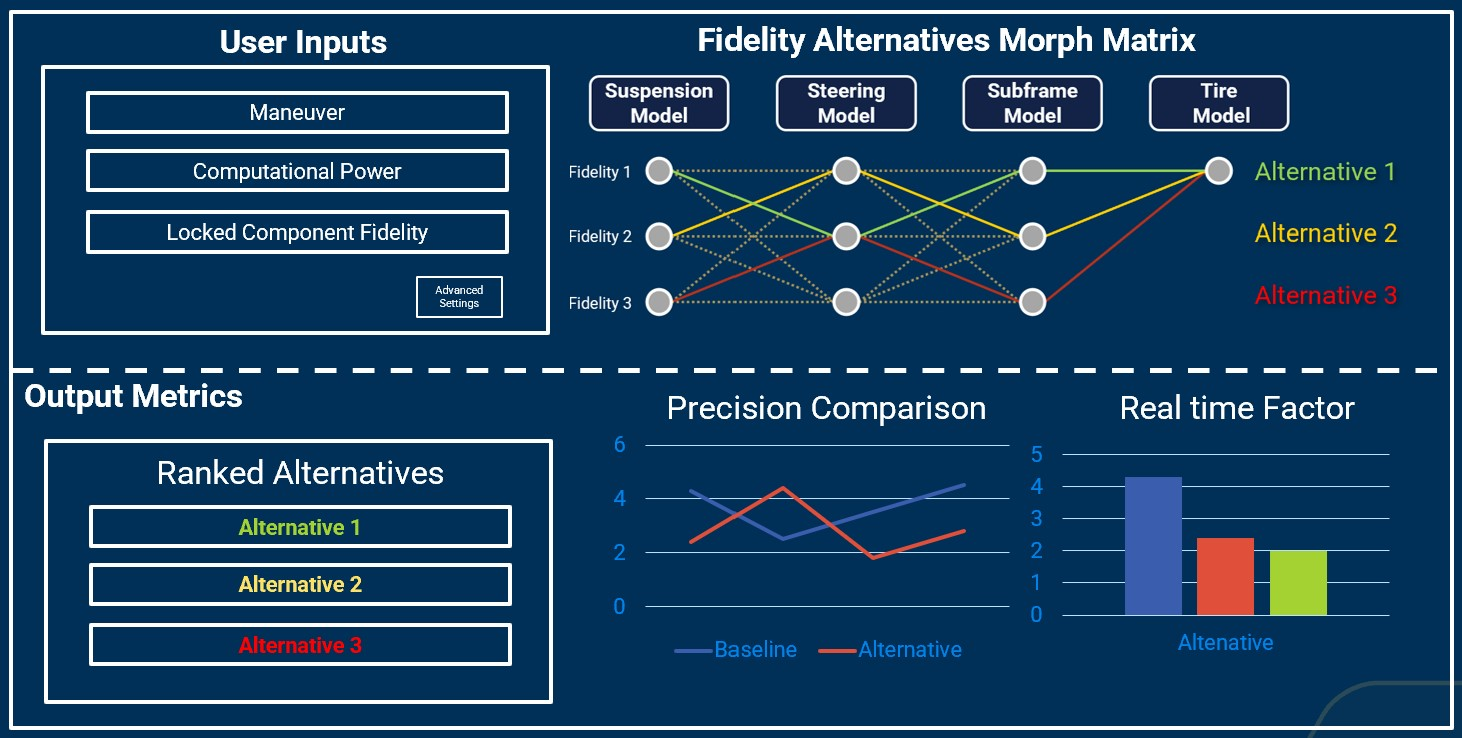
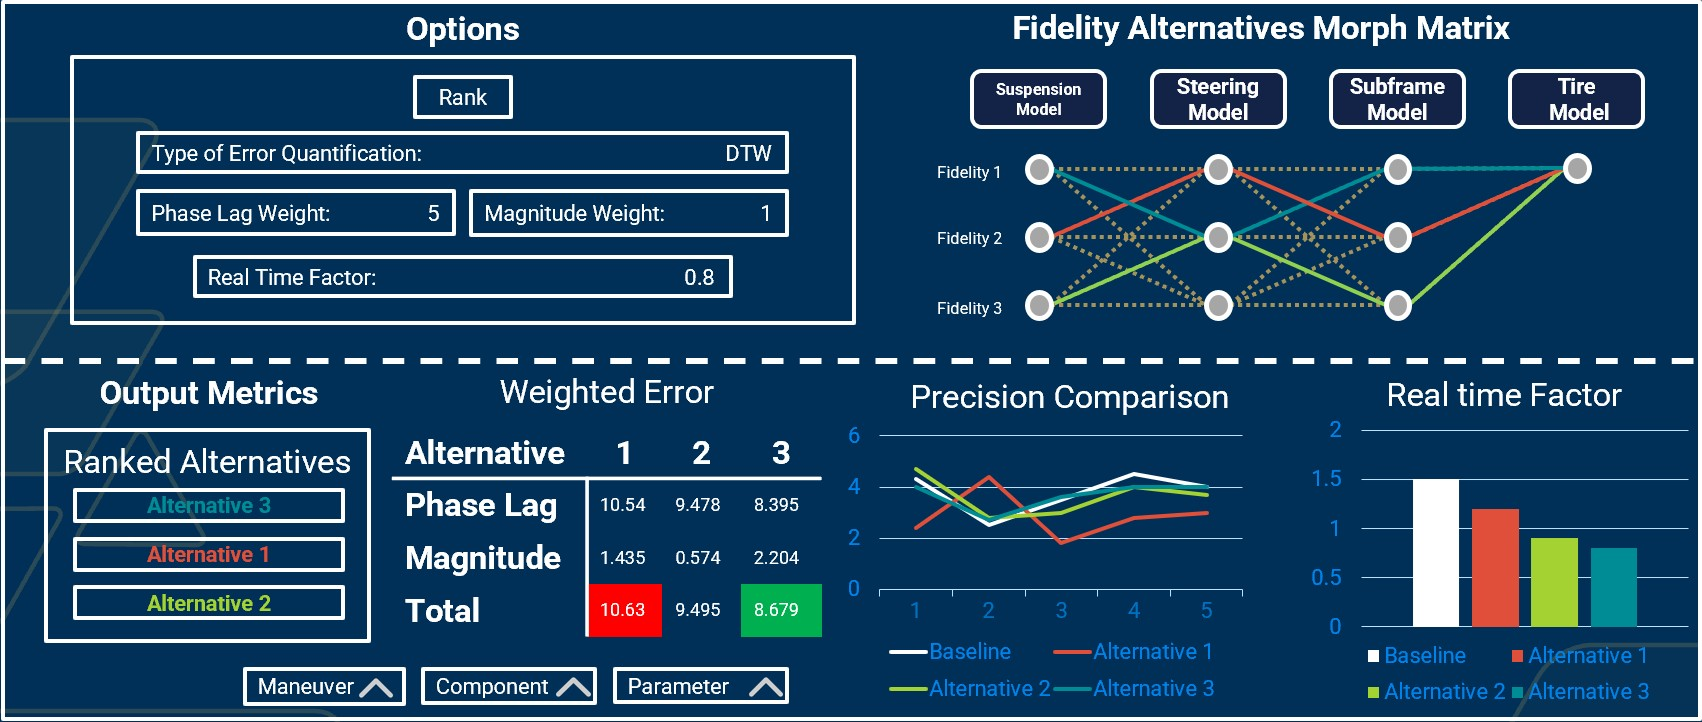
Updated the projects section

Changed region(s): [[0.0, 0.0, 1.0, 1.0], [0.7079, 0.8227, 0.7387, 0.8532], [0.7079, 0.7313, 0.7387, 0.7618]]

diff --git a/index.html b/index.html
@@ -27,7 +27,7 @@
 
     <section id="about">
         <h2>About Me</h2>
-        <p>General Engineering student with a strong foundation in Mechanical Engineering, 
+        <p>Graduate Engineering student with a strong foundation in Mechanical Engineering, 
             holding a French dual degree. I possess an interdisciplinary background encompassing 
             mechanical design and simulation, programming and algorithms, vehicle systems, robotics, 
             and project management expertise. Authorized to work in the U.S. under OPT.</p>
@@ -60,38 +60,37 @@
                 <p style="font-size: 0.9em; color: gray;">
                     Image Source: <a href="https://www.faac.com/wp-content/uploads/2017/12/RDS-2000-with-tire.jpg" target="_blank">FAAC</a>
                 </p>
-                <h4><br>Our Objective:</h4>
+                <h4><br>Objective:</h4>
                 <p>Streamline the process of creating and refining the fidelity of component models for RT simulation. Specifically, we aim to propose a method for evaluating the <b>trade-off between real-time computational performance and model error</b> in multi-body dynamics (MBD) for RT driver-in-the-loop simulations.</p>
         
                 <h4><br>Technical Tasks:</h4>
                 <ul>
-                    <li><strong>Background and Training:</strong>
-                        <ul>
-                            <li>Conduct a literature review to understand the relevant concepts.</li>
-                            <li>Familiarize with necessary tools and methodologies.</li>
-                        </ul>
-                    </li>
+
                     <li><strong>Modeling and Simulation Experimentation:</strong>
                         <ul>
-                            <li>Benchmark the baseline model and identify performance bottlenecks.</li>
-                            <li>Experiment with variable fidelity modeling to assess the impact of different fidelity levels on simulation performance.</li>
-                            <li>Conduct simulations and experimentation to identify optimal solver settings.</li>
-                            <li>Validate and verify the models to ensure accuracy and reliability.</li>
-                            <li>Automate parts of the modeling process to improve efficiency.</li>
+                            <li>Configure the baseline model on Simpack based on Honda's car model provided.</li>
+                            <li>Configure the solver settings.</li>
+                            <li>Analyze simulation bottlenecks to identify opportunities for simplifying the baseline model's components.</li>
+                            <li>Generation of all alternative simulations with varying levels of fidelity using statistical techniques such as Design of Experiments (DOE).</li>
+                            <li>Run simulations using Simpack.</li>
+                            <li>Determine the real-time factor (computational cost) and quantify the error for each simulation.</li>
+                            <li>Rank the alternatives by evaluating the trade-off between computational cost and performance.</li>
                         </ul>
                     </li>
-                    <li><strong>Approach Evaluation:</strong>
-                        <ul>
-                            <li>Evaluate the real-time factor of the simulation models.</li>
-                            <li>Assess model error by comparing simulation results to real-world data.</li>
-                            <li>Perform trade-off analysis to understand the balance between real-time computational demands and model accuracy, and create a decision-making framework.</li>
-                        </ul>
-                    </li>
-   
+
                 </ul>
-        
-                <h4><br>Morphological Matrix:</h4>
-                <p>To explore various model configurations, we will evaluate different combinations of fidelity levels for key vehicle components (e.g., suspension, steering, subframe, tires). By creating alternatives that mix different fidelity levels (e.g., suspension with fidelity level 3, steering with fidelity level 1), we can examine how each combination affects real-time performance, computational cost, and model precision.</p>
+
+
+                <h4>Model Simplification</h4>
+                <p>The key components of focus include suspensions, subframe, tires, and steering.</p>
+                <p>Each <strong>alternative</strong> represents a variation of our car model, where different components have specific fidelity levels that vary across simulations.</p>
+                
+                <p>Example of component simplification: </p>
+                
+                <div style="text-align: center;">
+                    <img src="images/ex_comp_simp.jpg" alt="Example of component simplification" style="max-width: 80%; height: auto;">
+                </div>
+
                 <p>Additionally, we will employ <strong>Design of Experiments (DoE)</strong> to systematically analyze how different factors affect the outcome. DoE will help us plan, conduct, and interpret controlled tests to evaluate the relationships between process factors and model outputs.</p>
         
                 <h4><br>Main Tools and Enablers:</h4>
@@ -345,7 +344,7 @@
 
                 <h4><br>Challenges</h4>
                 <ul>
-                    <li>Minimizing friction between components to enhance efficiency and longevity. </li>
+                    <li>Minimizing friction between components to enhance efficiency. </li>
                     <li>Optimizing space management within the compact watch mechanism. </li>
                     <li>Ensuring the structural integrity of components (e.g., preventing plastic deformations). </li>
                     <li>Maintaining tight tolerances for precise assembly and functionality. </li>
